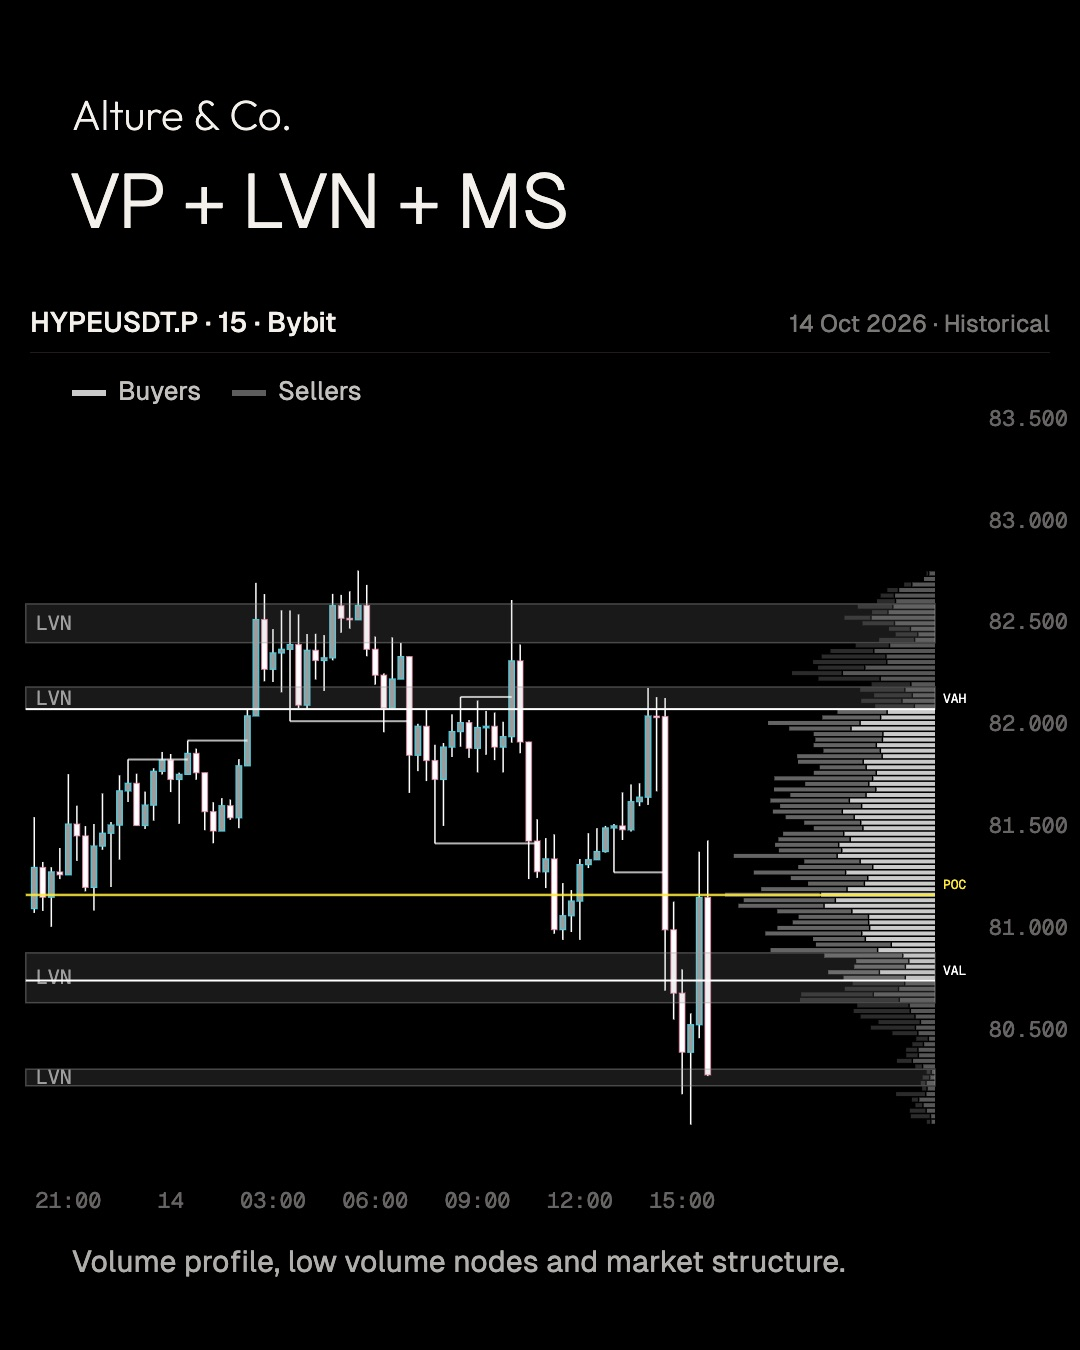
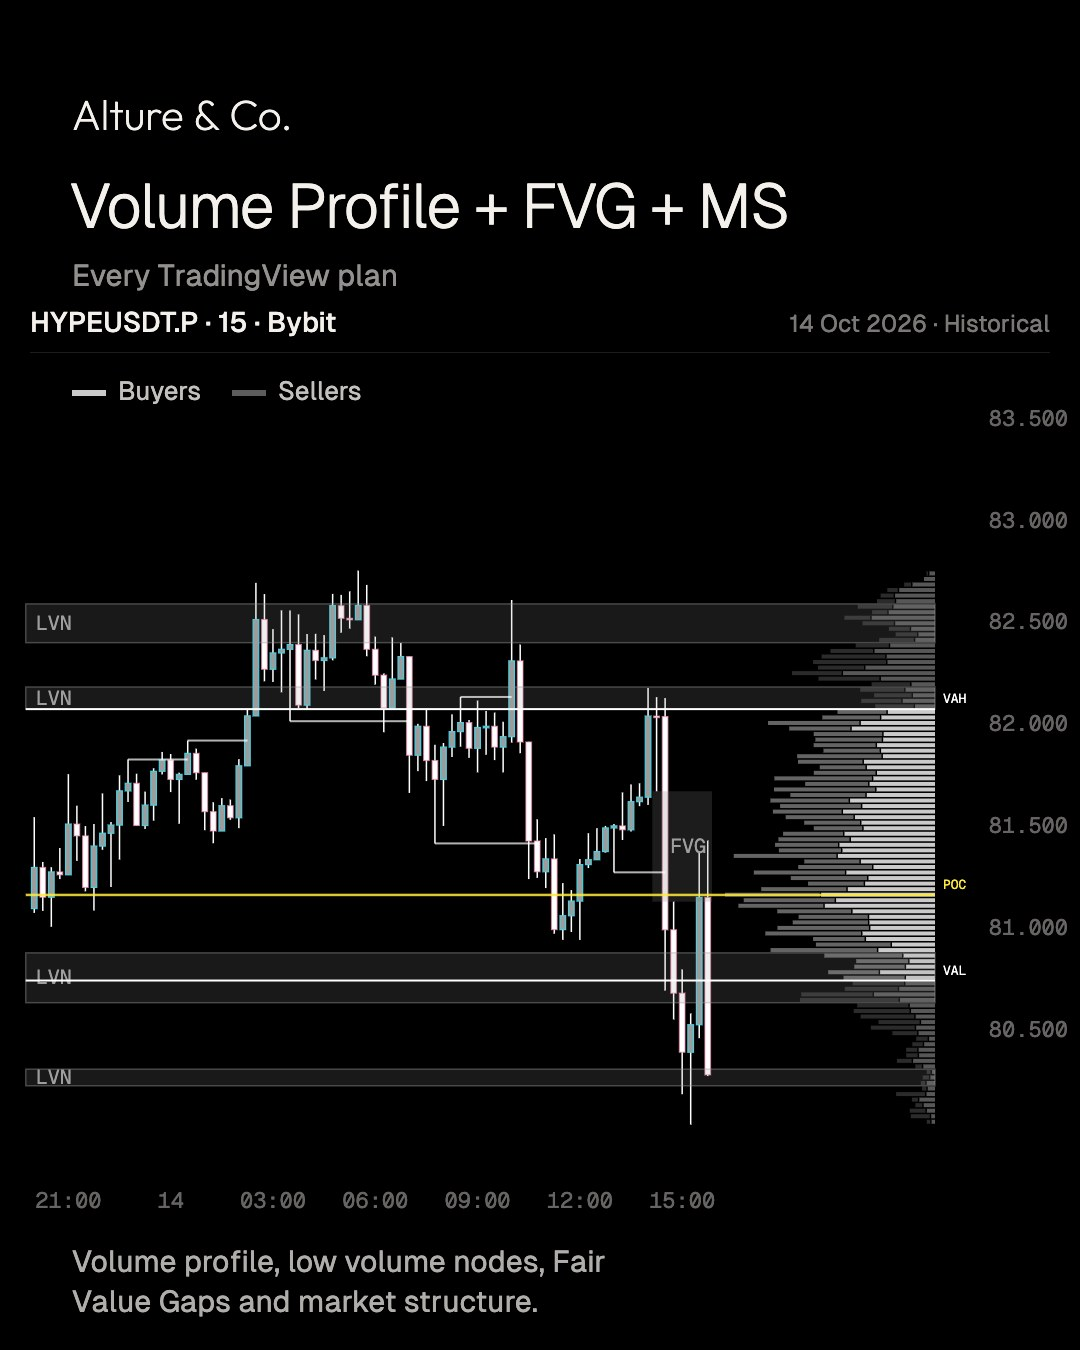
Indicators: price as a quiet row of the comparison table; indicator images re-rendered with final names (no "Standard")

diff --git a/reels/indicator-features/slides.html b/reels/indicator-features/slides.html
@@ -1,0 +1,66 @@
+<!doctype html><meta charset="utf-8"><style>
+  @font-face { font-family: "Geist"; font-weight: 300; src: url("../volume-profile/fonts/geist-sans-latin-300-normal.woff2") format("woff2"); }
+  @font-face { font-family: "Geist"; font-weight: 400; src: url("../volume-profile/fonts/geist-sans-latin-400-normal.woff2") format("woff2"); }
+  @font-face { font-family: "Geist"; font-weight: 500; src: url("../volume-profile/fonts/geist-sans-latin-500-normal.woff2") format("woff2"); }
+  @font-face { font-family: "Geist"; font-weight: 600; src: url("../volume-profile/fonts/geist-sans-latin-600-normal.woff2") format("woff2"); }
+  @font-face { font-family: "Geist Mono"; font-weight: 400; src: url("../volume-profile/fonts/geist-mono-latin-400-normal.woff2") format("woff2"); }
+  @font-face { font-family: "Geist Mono"; font-weight: 500; src: url("../volume-profile/fonts/geist-mono-latin-500-normal.woff2") format("woff2"); }
+  @font-face { font-family: "Outfit"; font-weight: 200; src: url("../volume-profile/fonts/outfit-latin-200-normal.woff2") format("woff2"); }
+  @font-face { font-family: "Outfit"; font-weight: 300; src: url("../volume-profile/fonts/outfit-latin-300-normal.woff2") format("woff2"); }
+</style>
+<style>body{margin:0;background:#000}canvas{display:block}</style>
+<canvas id="c" width="1080" height="1350"></canvas>
+<script src="../volume-profile/engine/theme.js"></script>
+<script src="../volume-profile/engine/core.js"></script>
+<script src="data/hypeusdt.js"></script>
+<script src="data/orderflow.js"></script>
+<script src="layers.js"></script>
+<script src="scenes/02-features.js"></script>
+<script src="scenes/03-orderflow.js"></script>
+<script>
+// One carousel slide per indicator: ?p=allinone | standard | orderflow | vpms
+(async function () {
+  await Promise.all(["300 40px Geist", "400 40px Geist", "500 40px Geist", "400 24px 'Geist Mono'", "500 24px 'Geist Mono'", "200 40px Outfit"].map((f) => document.fonts.load(f)));
+  const REEL = window.REEL, I = REEL.indicator, ink = REEL.ink, text = REEL.text;
+  const SLIDES = {
+    allinone: ["Volume Profile + Footprint", "Premium or Ultimate plan", "Real volume profile, bubbles from real delta, CVD divergence, absorption (A) and exhaustion (E)."],
+    standard: ["Volume Profile + VWAP", "Every TradingView plan", "Volume profile, LVN, VWAP, structure, FVG, and order flow estimated from 1-minute candles."],
+    orderflow: ["Order Flow CVD", "Premium or Ultimate plan", "Inside every candle: sold at the bid × bought at the ask, at every price."],
+    vpms: ["Volume Profile + FVG + MS", "Every TradingView plan", "Volume profile, low volume nodes, Fair Value Gaps and market structure."],
+  };
+  const p = new URLSearchParams(location.search).get("p");
+  const [name, plan, line] = SLIDES[p];
+  const ctx = document.getElementById("c").getContext("2d");
+  ctx.fillStyle = "#000"; ctx.fillRect(0, 0, 1080, 1350);
+  ctx.save();
+  ctx.translate(0, -280);
+  // All-in-One: zoomed on the afternoon, where the bubbles, divergence, A and E are.
+  if (p === "allinone") { ctx.translate(1000, 1100); ctx.scale(1.5, 1.5); ctx.translate(-1000, -1100); }
+  REEL.tagSize = p === "allinone" ? 10 : 13; // VAH / POC / VAL labels, small
+  if (p === "orderflow") REEL.slideBubbles = 0.6;
+  if (p === "orderflow") REEL.scenes.find((s) => s.id === "03-orderflow").draw(ctx, 3.4);
+  else {
+    I.base(ctx, 0);
+    I.profile(ctx, 1);
+    const layers = { allinone: ["lvn", "value"], standard: ["lvn", "vwap", "fvg", "value", "structure"], vpms: ["lvn", "fvg", "value", "structure"] }[p];
+    for (const id of layers) I.LAYERS[id](ctx, 1);
+    if (p === "allinone") I.LAYERS.fvg(ctx, 1, false); // the grey box only, no label
+    if (p === "allinone") for (const k of ["bubble", "divergence", "A", "E"]) I.marks(ctx, k, 1, 1, k === "bubble" ? 0.7 : k === "divergence" ? 0.4 : 0.6);
+  }
+  ctx.restore();
+  ctx.fillStyle = "#000"; ctx.fillRect(0, 0, 1080, 302); ctx.fillRect(0, 1222, 1080, 128);
+  text(ctx, "Alture & Co.", 72, 130, { size: 42, weight: 200, family: "Outfit" });
+  text(ctx, name, 70, 228, { size: name.length > 20 ? 62 : 76, weight: 300, tracking: -1.5 });
+  text(ctx, plan, 72, 286, { size: 30, color: ink(0.6) });
+  REEL.wrap(ctx, line, 936, { size: 30 }).forEach((l, i) => text(ctx, l, 72, 1272 + i * 40, { size: 30, color: ink(0.72) }));
+  // What the profile's two lines are.
+  if (p !== "orderflow") {
+    const ly = p === "allinone" ? 362 : 400; // below the chart header when it is shown
+    ctx.fillStyle = "rgba(230,230,230,0.88)"; ctx.fillRect(72, ly - 10, 34, 6);
+    text(ctx, "Buyers", 118, ly, { size: 26, color: ink(0.8) });
+    ctx.fillStyle = "rgba(207,207,207,0.45)"; ctx.fillRect(232, ly - 10, 34, 6);
+    text(ctx, "Sellers", 278, ly, { size: 26, color: ink(0.8) });
+  }
+  window.__done = true;
+})();
+</script>

diff --git a/src/app/(site)/indicators/indicators-explorer.tsx b/src/app/(site)/indicators/indicators-explorer.tsx
@@ -213,10 +213,6 @@ const Compare = () => (
                             {c.data === "real" ? "Tick-level" : "1-minute precision"}
                         </p>
                         <p className="mt-3 text-[15px] md:text-lg font-medium text-white">{c.name}</p>
-                        <p className="mt-4 flex items-baseline gap-1.5">
-                            <span className="font-logo text-[40px] md:text-[52px] font-extralight leading-none tabular-nums text-white">${c.price}</span>
-                            <span className="text-[12px] text-white/35">/ month</span>
-                        </p>
                     </div>
                 ))}
                 {["Order flow from", "Sees", "TradingView plan"].map((term, i) => (
@@ -228,6 +224,13 @@ const Compare = () => (
                             </span>
                         ))}
                     </div>
+                ))}
+                <span className="border-t border-white/10 py-5 pr-3 text-[12px] uppercase tracking-[0.1em] text-white/35">Price</span>
+                {COMPARE.map((c) => (
+                    <span key={c.name} className="border-l border-t border-white/10 px-4 md:px-8 py-5">
+                        <span className={`text-[17px] font-medium tabular-nums ${c.data === "real" ? "text-white" : "text-white/70"}`}>${c.price}</span>
+                        <span className="ml-1 text-[13px] text-white/40">per month</span>
+                    </span>
                 ))}
             </div>
         </div>
